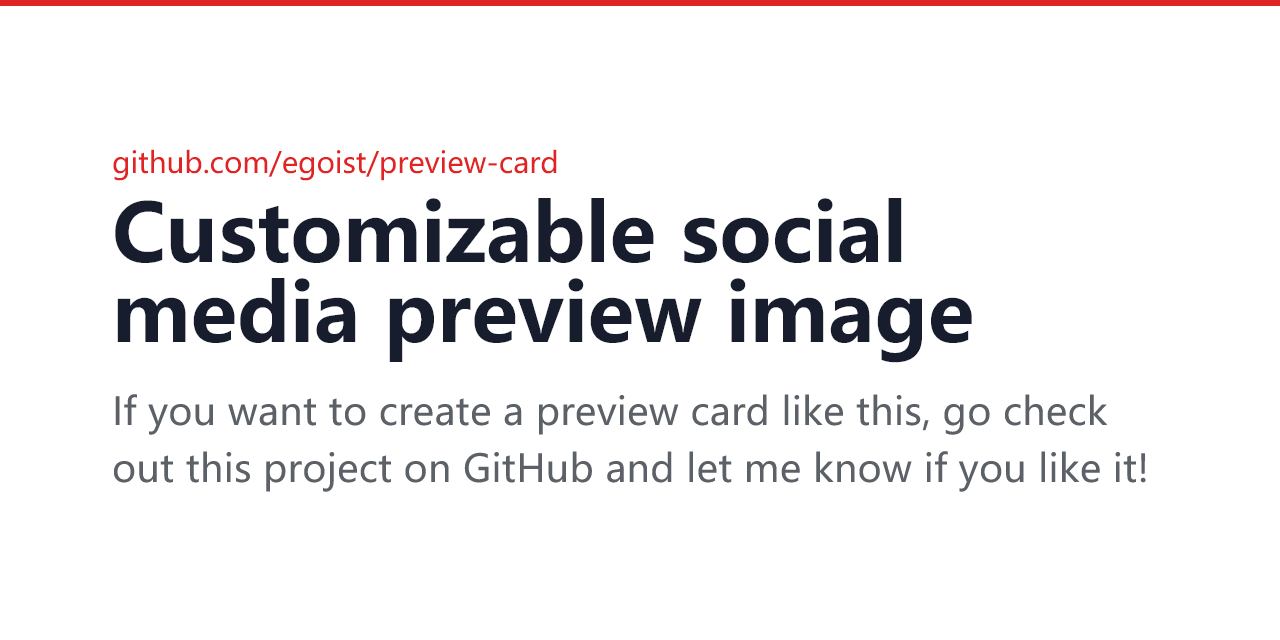
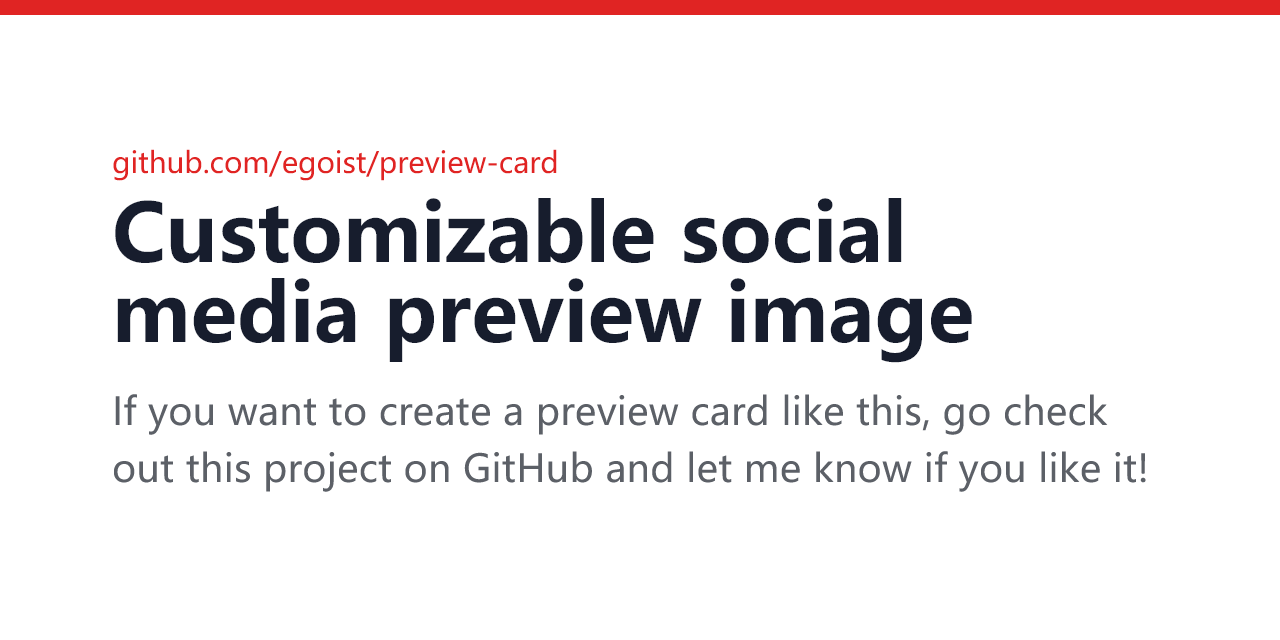
fix: increase border height

Changed region(s): [[0.0, 0.0, 1.0, 0.0312]]

diff --git a/src/index.ts b/src/index.ts
@@ -45,7 +45,7 @@ export const getImage = async (options: Options) => {
   }
   .card:before {
     position: absolute;
-    height: 6px;
+    height: 15px;
     background: ${themeColor};
     content: '';
     display: block;
